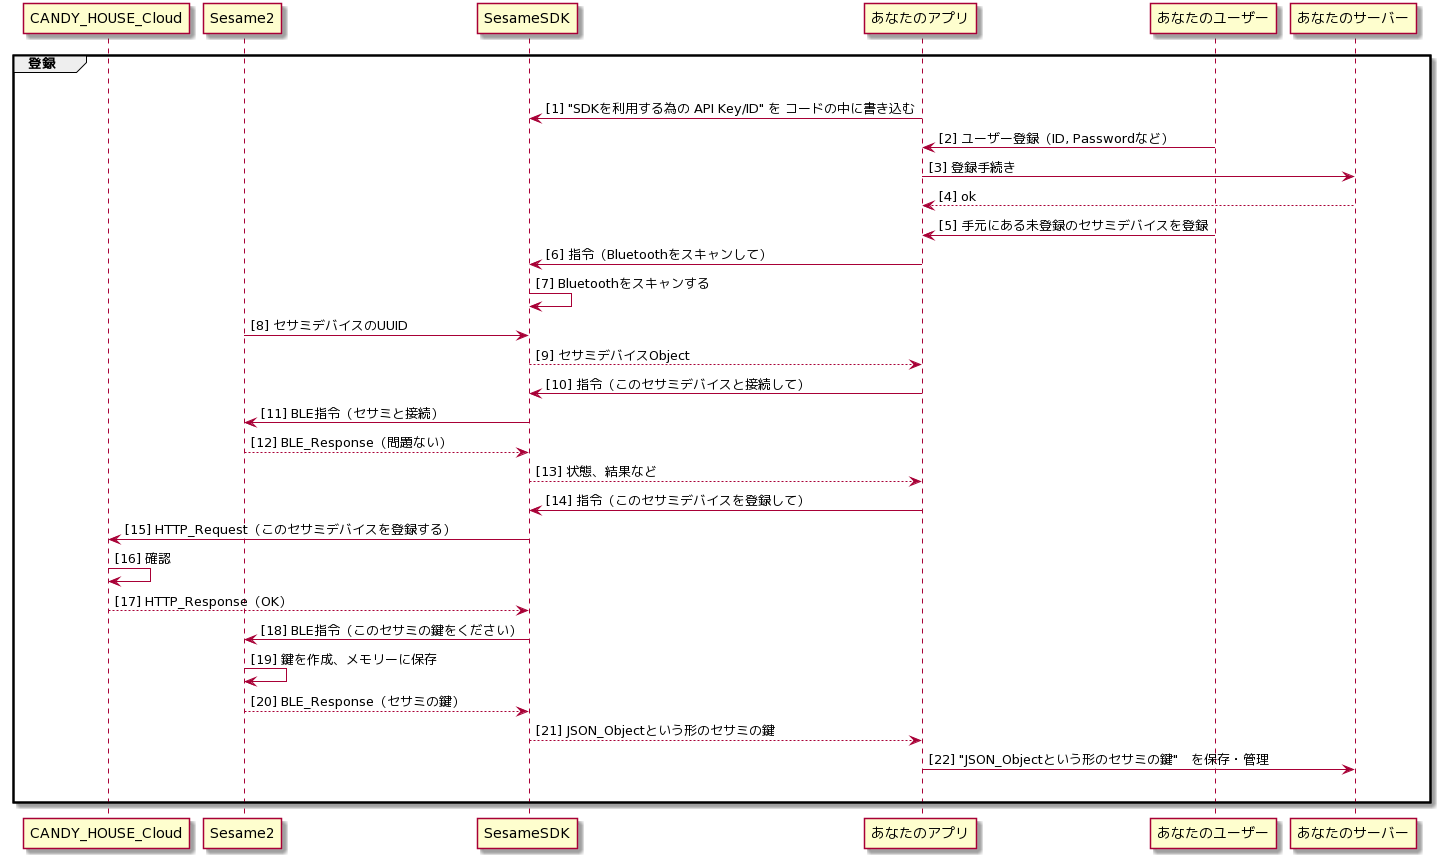
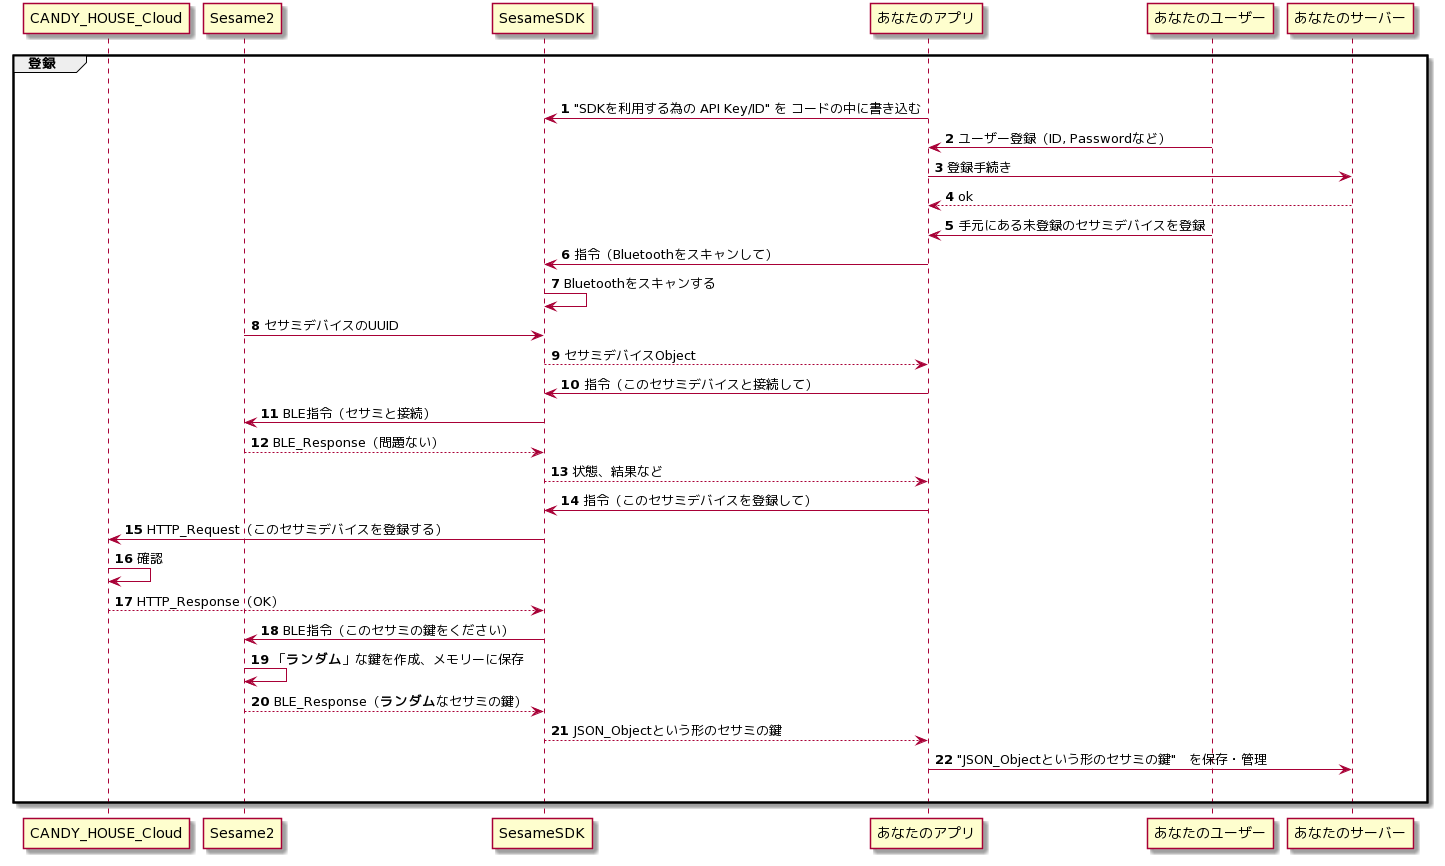
Slightly improving PlantUML

diff --git a/PlantUML.md b/PlantUML.md
@@ -8,28 +8,31 @@ participant あなたのアプリ
 participant あなたのユーザー
 participant あなたのサーバー
 |||
-あなたのアプリ -> SesameSDK : [1] "SDKを利用する為の API Key/ID" を コードの中に書き込む
-あなたのユーザー -> あなたのアプリ: [2] ユーザー登録（ID, Passwordなど）
-あなたのアプリ -> あなたのサーバー : [3] 登録手続き
-あなたのサーバー --> あなたのアプリ : [4] ok
-あなたのユーザー -> あなたのアプリ: [5] 手元にある未登録のセサミデバイスを登録
-あなたのアプリ -> SesameSDK : [6] 指令（Bluetoothをスキャンして）
-SesameSDK -> SesameSDK : [7] Bluetoothをスキャンする
-Sesame2 -> SesameSDK : [8] セサミデバイスのUUID
-SesameSDK --> あなたのアプリ : [9] セサミデバイスObject
-あなたのアプリ -> SesameSDK : [10] 指令（このセサミデバイスと接続して）
-SesameSDK -> Sesame2: [11] BLE指令（セサミと接続）
-Sesame2 --> SesameSDK: [12] BLE_Response（問題ない）
-SesameSDK --> あなたのアプリ : [13] 状態、結果など
-あなたのアプリ -> SesameSDK : [14] 指令（このセサミデバイスを登録して）
-SesameSDK -> CANDY_HOUSE_Cloud: [15] HTTP_Request（このセサミデバイスを登録する）
-CANDY_HOUSE_Cloud -> CANDY_HOUSE_Cloud: [16] 確認
-CANDY_HOUSE_Cloud --> SesameSDK: [17] HTTP_Response（OK）
-SesameSDK -> Sesame2: [18] BLE指令（このセサミの鍵をください）
-Sesame2 -> Sesame2: [19] 鍵を作成、メモリーに保存
-Sesame2 --> SesameSDK: [20] BLE_Response（セサミの鍵）
-SesameSDK --> あなたのアプリ : [21] JSON_Objectという形のセサミの鍵
-あなたのアプリ -> あなたのサーバー : [22] "JSON_Objectという形のセサミの鍵"　を保存・管理
+
+autonumber
+
+あなたのアプリ -> SesameSDK : "SDKを利用する為の API Key/ID" を コードの中に書き込む
+あなたのユーザー -> あなたのアプリ: ユーザー登録（ID, Passwordなど）
+あなたのアプリ -> あなたのサーバー : 登録手続き
+あなたのサーバー --> あなたのアプリ : ok
+あなたのユーザー -> あなたのアプリ: 手元にある未登録のセサミデバイスを登録
+あなたのアプリ -> SesameSDK : 指令（Bluetoothをスキャンして）
+SesameSDK -> SesameSDK : Bluetoothをスキャンする
+Sesame2 -> SesameSDK : セサミデバイスのUUID
+SesameSDK --> あなたのアプリ : セサミデバイスObject
+あなたのアプリ -> SesameSDK : 指令（このセサミデバイスと接続して）
+SesameSDK -> Sesame2: BLE指令（セサミと接続）
+Sesame2 --> SesameSDK: BLE_Response（問題ない）
+SesameSDK --> あなたのアプリ : 状態、結果など
+あなたのアプリ -> SesameSDK : 指令（このセサミデバイスを登録して）
+SesameSDK -> CANDY_HOUSE_Cloud: HTTP_Request（このセサミデバイスを登録する）
+CANDY_HOUSE_Cloud -> CANDY_HOUSE_Cloud: 確認
+CANDY_HOUSE_Cloud --> SesameSDK: HTTP_Response（OK）
+SesameSDK -> Sesame2: BLE指令（このセサミの鍵をください）
+Sesame2 -> Sesame2: 「**ランダム**」な鍵を作成、メモリーに保存
+Sesame2 --> SesameSDK: BLE_Response（**ランダム**なセサミの鍵）
+SesameSDK --> あなたのアプリ : JSON_Objectという形のセサミの鍵
+あなたのアプリ -> あなたのサーバー : "JSON_Objectという形のセサミの鍵"　を保存・管理
 |||
 end
 @enduml
@@ -45,19 +48,22 @@ participant あなたのアプリ
 participant あなたのユーザー
 participant あなたのサーバー
 |||
-あなたのアプリ -> SesameSDK: [1] "SDKを利用する為の API Key/ID" を コードの中に書き込む
-あなたのユーザー -> あなたのアプリ: [2] ユーザーログイン（ID, Passwordなど）
-あなたのアプリ -> あなたのサーバー : [3] ログイン手続き
-あなたのサーバー --> あなたのアプリ : [4] OK、"JSON_Objectという形のセサミの鍵"
-あなたのアプリ -> SesameSDK: [5] 指令（"JSON_Objectという形のセサミの鍵" を伝達）
-あなたのアプリ -> SesameSDK: [6] 指令（セサミデバイスと接続して）
-SesameSDK -> Sesame2: [7] BLE指令（セサミの鍵の適合確認）
-Sesame2 --> SesameSDK: [8] BLE_Response（問題ない）
-SesameSDK --> あなたのアプリ : [9] 状態、結果など
-あなたのアプリ -> SesameSDK: [10] 指令（開閉、設定など）
-SesameSDK -> Sesame2: [11] BLE指令（開閉、設定など）
-Sesame2 --> SesameSDK: [12] BLE_Response（状態、結果など）
-SesameSDK --> あなたのアプリ : [13] 状態、結果など
+
+autonumber
+
+あなたのアプリ -> SesameSDK: "SDKを利用する為の API Key/ID" を コードの中に書き込む
+あなたのユーザー -> あなたのアプリ: ユーザーログイン（ID, Passwordなど）
+あなたのアプリ -> あなたのサーバー : ログイン手続き
+あなたのサーバー --> あなたのアプリ : OK、"JSON_Objectという形のセサミの鍵"
+あなたのアプリ -> SesameSDK: 指令（"JSON_Objectという形のセサミの鍵" を伝達）
+あなたのアプリ -> SesameSDK: 指令（セサミデバイスと接続して）
+SesameSDK -> Sesame2: BLE指令（セサミの鍵の適合確認）
+Sesame2 --> SesameSDK: BLE_Response（問題ない）
+SesameSDK --> あなたのアプリ : 状態、結果など
+あなたのアプリ -> SesameSDK: 指令（開閉、設定など）
+SesameSDK -> Sesame2: BLE指令（開閉、設定など）
+Sesame2 --> SesameSDK: BLE_Response（状態、結果など）
+SesameSDK --> あなたのアプリ : 状態、結果など
 |||
 end
 @enduml
